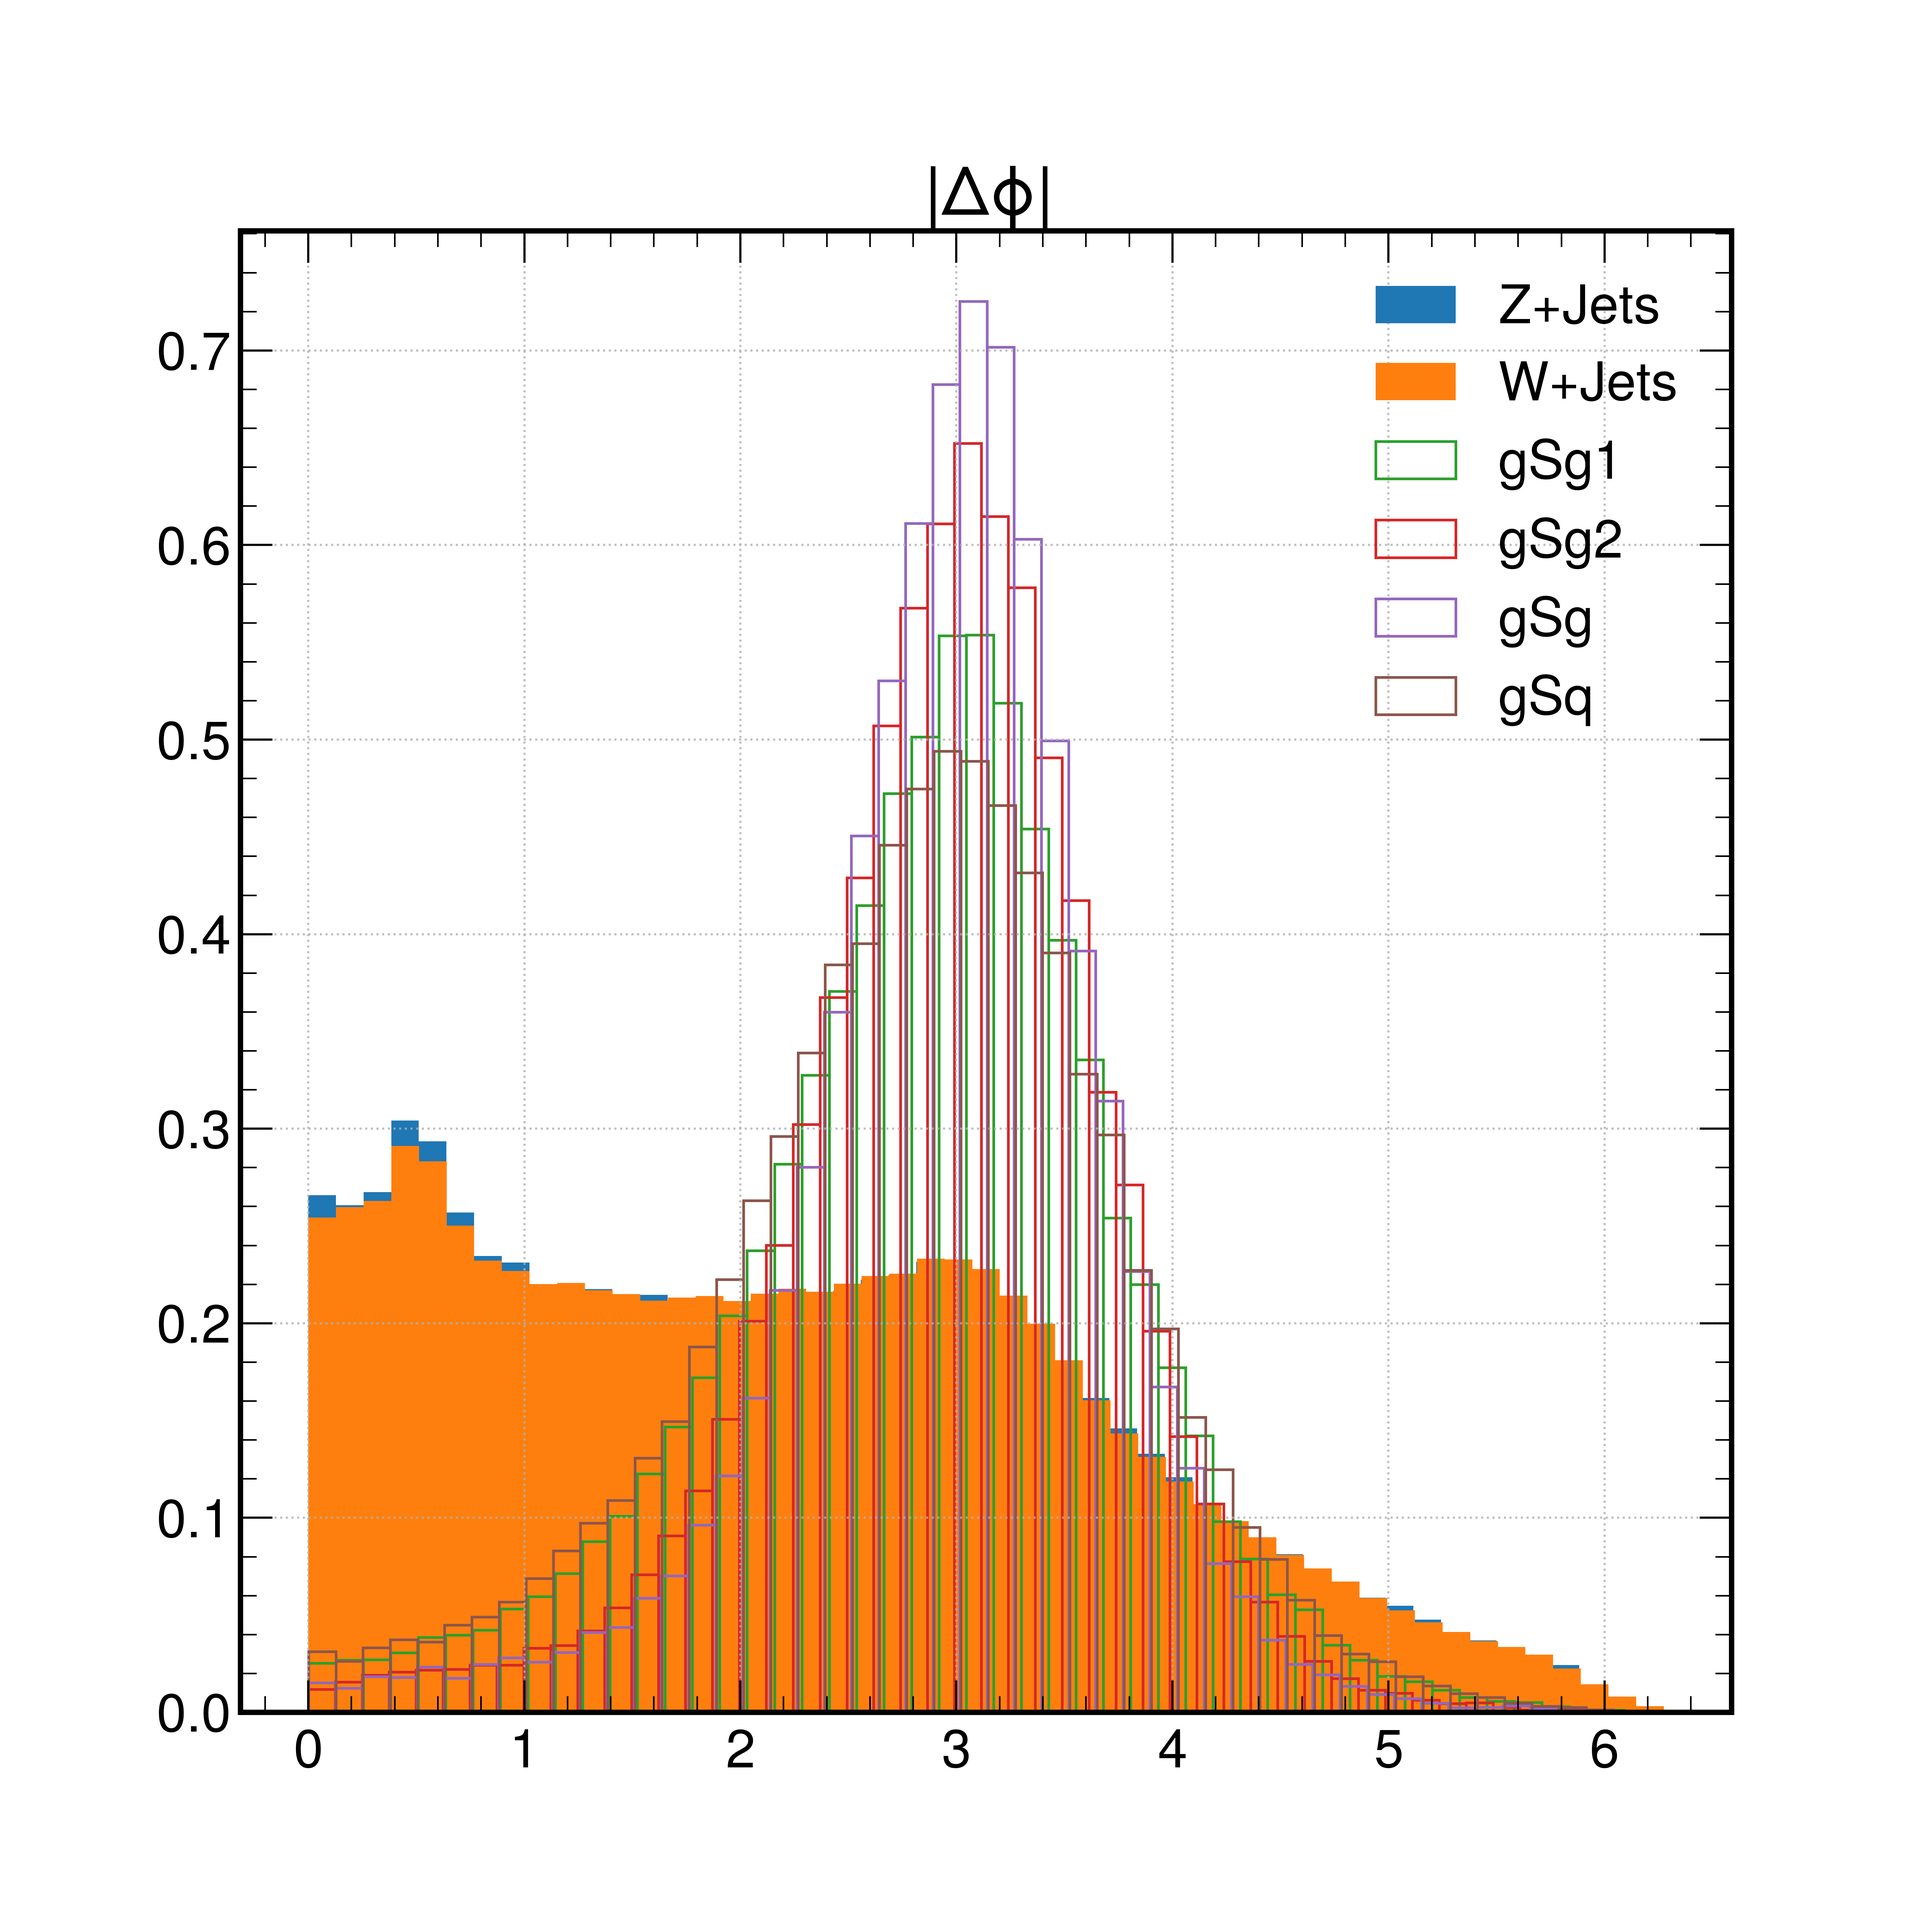
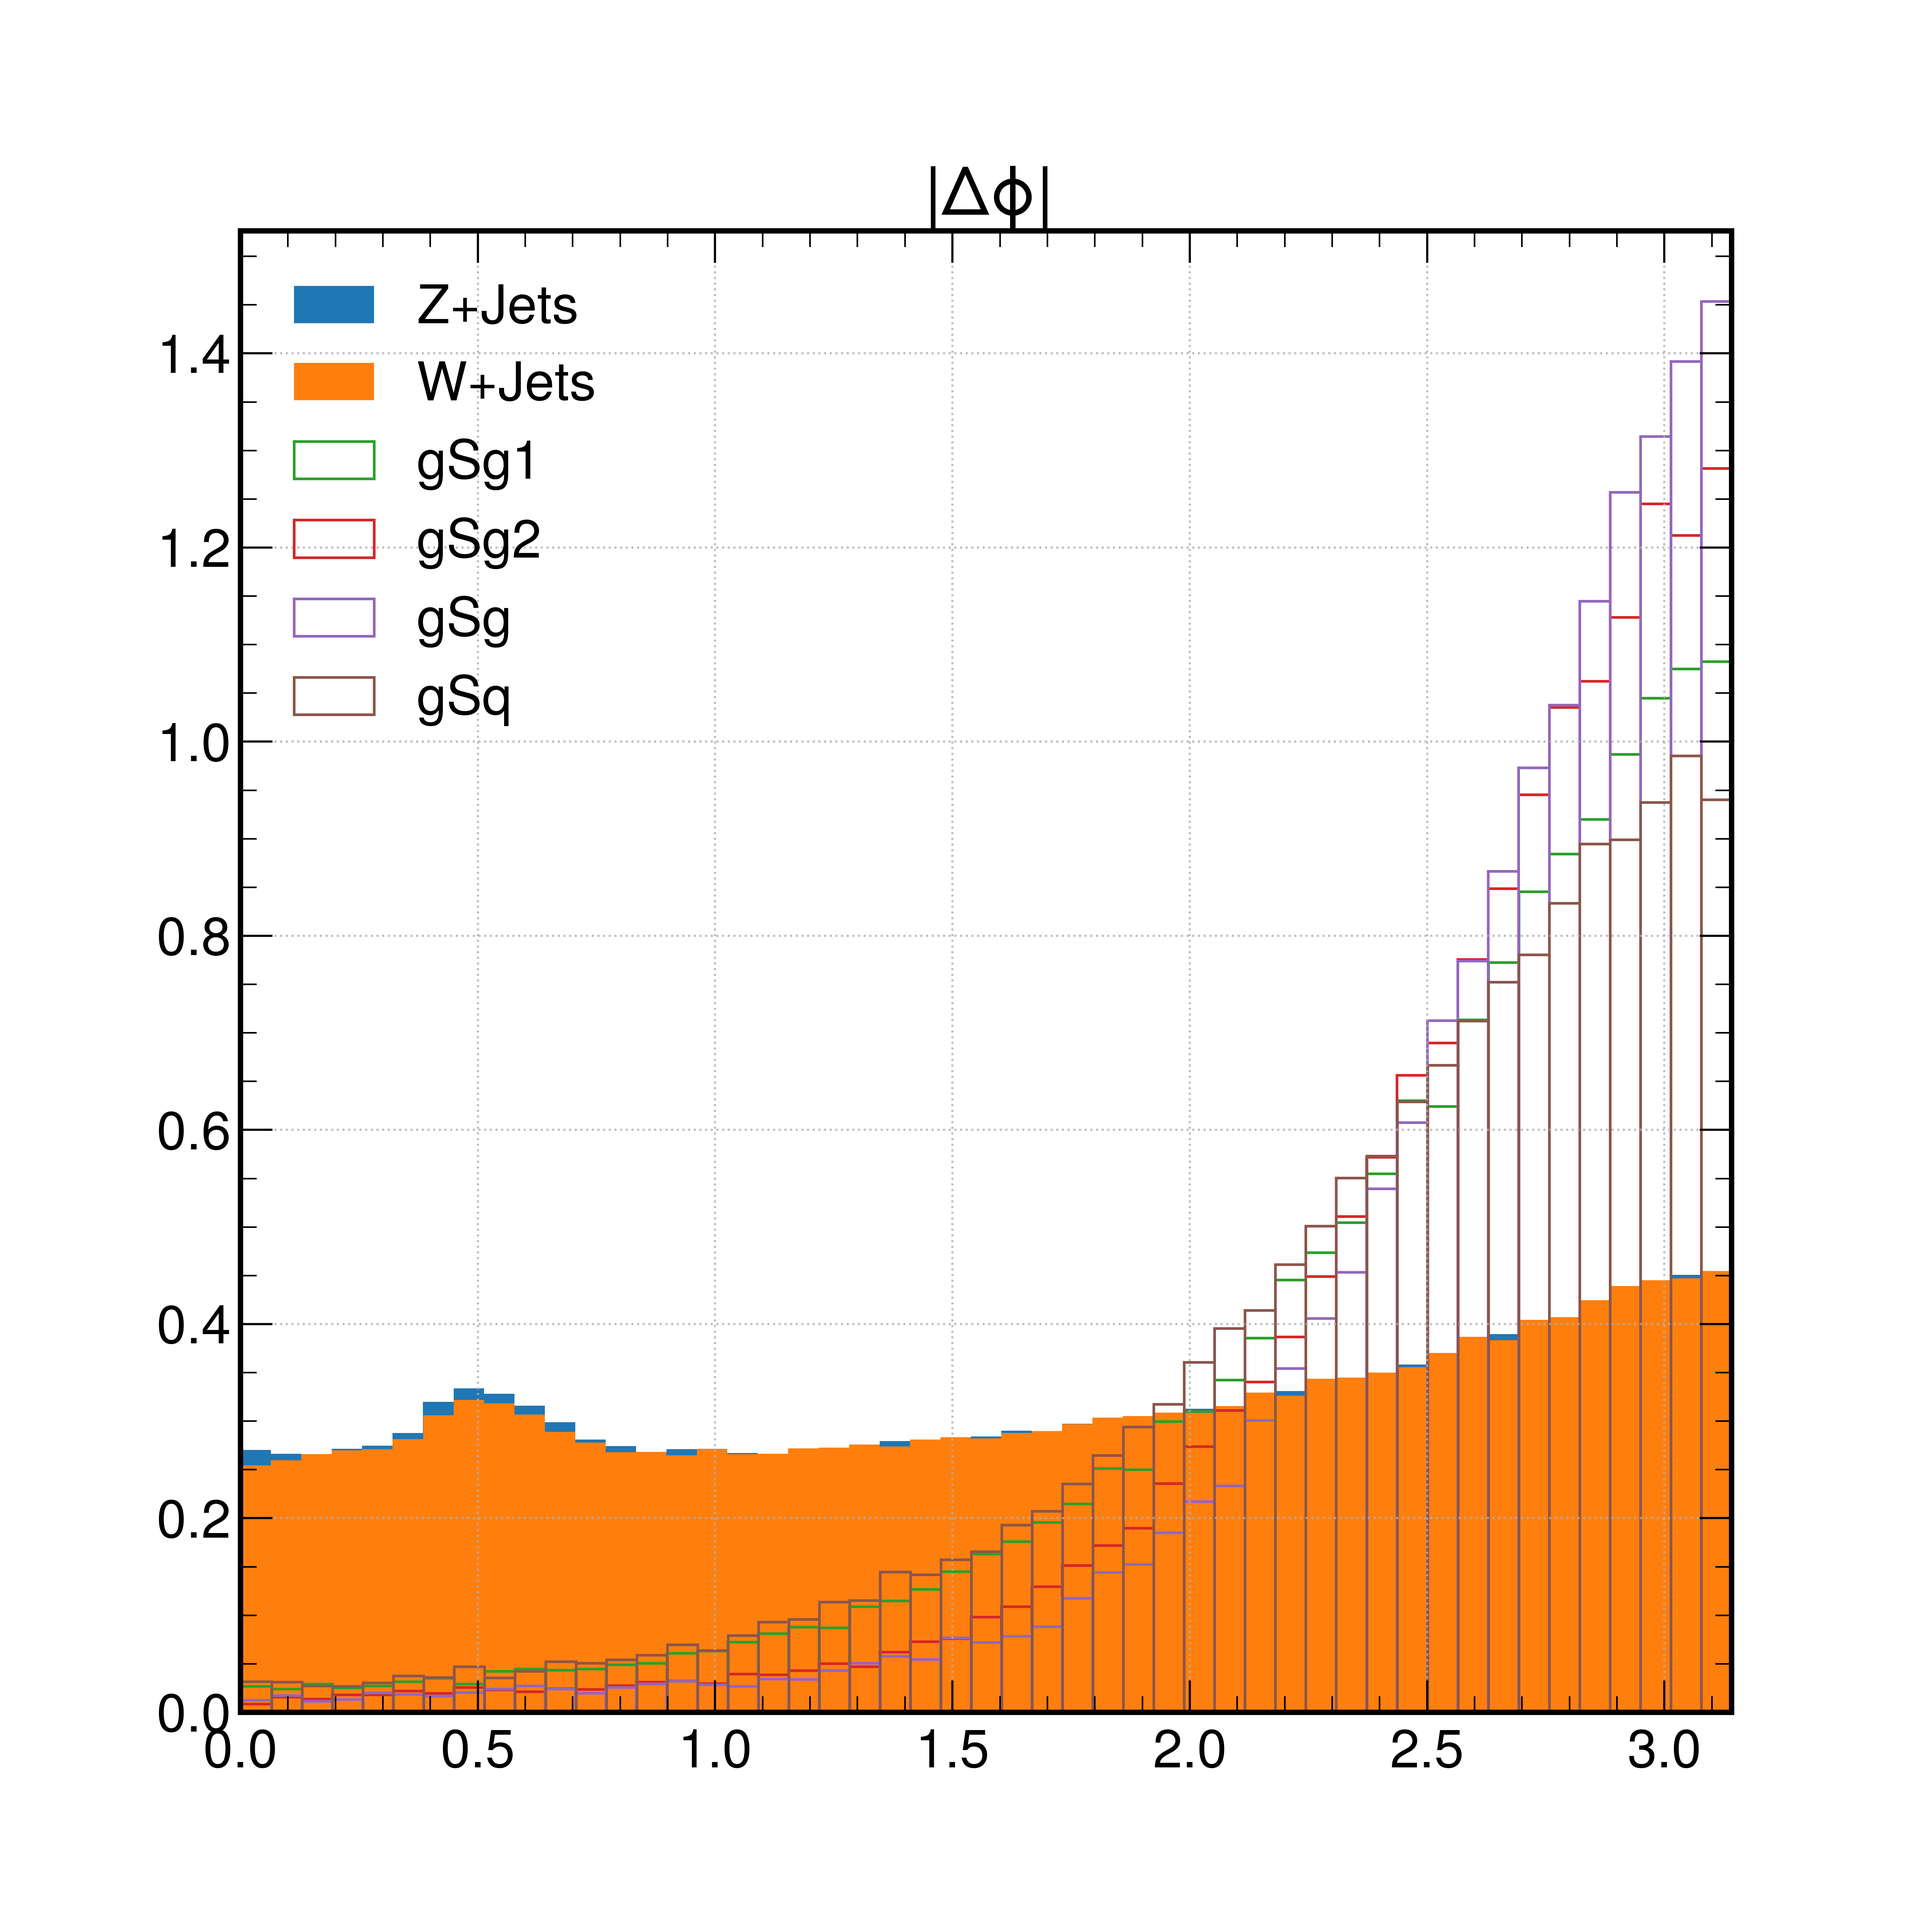
AjustePlots

diff --git a/funcs.py b/funcs.py
@@ -106,6 +106,8 @@ def invariant_mass(row):
 
 def azimuthal_difference(row):
     deltaPhi = abs(row['jet_phi0'] - row['jet_phi1'])
+    if deltaPhi > np.pi:
+        deltaPhi = abs(deltaPhi - 2*np.pi)
     return deltaPhi
 
 def pseudorapidity_separation(row):
@@ -120,12 +122,10 @@ def plotObservable(datas, names, variable, save=True, plot=False, folder='Plots/
     numDatas = len(datas)
 
     variableDict = {
-        'Azim_diff' : [azimuthal_difference, r'$\left|\Delta\phi\right|$'],
-        'Inv_mass' : [invariant_mass, r'$m_{jj}$'],
-        'Pseudorapidity' : [pseudorapidity_separation, r'$\left|\Delta\eta\right|$']
+        'Azim_diff' : [azimuthal_difference, r'$\left|\Delta\phi\right|$', (0, np.pi)],
+        'Inv_mass' : [invariant_mass, r'$m_{jj}$ [GeV]', (0,3000)],
+        'Pseudorapidity' : [pseudorapidity_separation, r'$\left|\Delta\eta\right|$', (0,10)]
     }
-
-
 
     fig = plt.figure()
     ax = fig.add_subplot(111)
@@ -149,6 +149,7 @@ def plotObservable(datas, names, variable, save=True, plot=False, folder='Plots/
     ax.grid()
     ax.tick_params(axis='x',labelsize=20)
     ax.tick_params(axis='y',labelsize=20)
+    ax.set_xlim(variableDict[variable][2])
 
     if save: plt.savefig(f'{folder}{variable}.png',dpi=dpi)
     if plot: plt.show()
